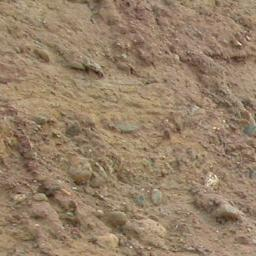
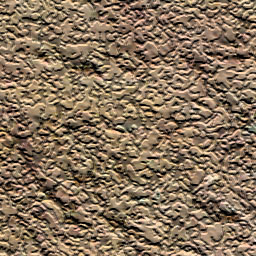
新增天空

diff --git a/snake3d/ground.cpp b/snake3d/ground.cpp
@@ -29,8 +29,6 @@ attribute vec4 v4Position;
 uniform mat4 m4MVP;
 varying vec2 v2TexCoord;
 
-uniform vec2 v2GroundSize;
-
 void main()
 {
 
@@ -51,9 +49,11 @@ static const char* const s_fshGround = SHADER_STRING_PRECISION_M
 (
 uniform sampler2D groundTexture;
 varying vec2 v2TexCoord;
+uniform vec2 v2GroundSize;
+
 void main()
 {
-	gl_FragColor = texture2D(groundTexture, v2TexCoord);//vec4(0.0, 1.0, 1.0, 1.0);
+	gl_FragColor = texture2D(groundTexture, fract(v2TexCoord * v2GroundSize));//vec4(0.0, 1.0, 1.0, 1.0);
 }
 );
 
@@ -70,7 +70,7 @@ const char* const Ground::paramVertexPositionName = "v4Position";
 const char* const Ground::paramGroundTextureName = "groundTexture";
 const char* const Ground::paramGroundSizeName = "v2GroundSize";
 
-Ground::Ground() : m_groundVBO(0), m_groundIndexVBO(0), m_groundMeshIndexVBO(0), m_groundIndexSize(0), m_meshIndexSize(0), m_program(NULL), m_programMesh(NULL), m_groundTexture(0)
+Ground::Ground() : m_groundVBO(0), m_groundIndexVBO(0), m_groundMeshIndexVBO(0), m_groundIndexSize(0), m_meshIndexSize(0), m_program(NULL), m_programMesh(NULL), m_groundTexture(0), m_groundSize()
 {
 
 }
@@ -82,6 +82,9 @@ Ground::~Ground()
 
 bool Ground::initWithStage(const int *stage, int w, int h, const char* texName)
 {
+	m_groundSize[0] = w;
+	m_groundSize[1] = h;
+
 	clearGround();
 
 	float widthStep = 1.0f / w;
@@ -215,9 +218,6 @@ void Ground::drawGround(HTAlgorithm::Mat4& mvp)
 		glActiveTexture(GROUND_TEXTURE_ID);
 		glBindTexture(GL_TEXTURE_2D, m_groundTexture);
 		m_program->sendUniformi(paramGroundTextureName, GROUND_TEXTURE_INDEX);
-		
-// 		GLint u = m_program->uniformLocation(paramGroundTextureName);
-// 		glUniform1i(m_program->uniformLocation(paramGroundTextureName), GROUND_TEXTURE_INDEX);
 	}
 
 	glBindBuffer(GL_ARRAY_BUFFER, m_groundVBO);
@@ -282,6 +282,9 @@ bool Ground::initPrograms()
 		LOG_ERROR("Ground : Program link failed!\n");
 		return false;
 	}
+
+	m_program->bind();
+	m_program->sendUniformf(paramGroundSizeName, m_groundSize[0], m_groundSize[1]);
 
 	m_programMesh = new ProgramObject;
 

diff --git a/snake3d/scenewindow.cpp b/snake3d/scenewindow.cpp
@@ -75,7 +75,7 @@ void SceneWindow::paintGL()
 	
 	m_ground->drawGround(qmat);
 	
-	m_ground->drawGroundWithMesh(qmat);
+//	m_ground->drawGroundWithMesh(qmat);
 
 	swapBuffers();
 }
@@ -119,7 +119,7 @@ void SceneWindow::initializeGL()
 	timer->start(20);
 
 	glEnable(GL_DEPTH_TEST);
-
+	
 	htCheckGLError("SceneWindow::initializeGL");
 }
 

diff --git a/snake3d/ground.h b/snake3d/ground.h
@@ -38,6 +38,7 @@ protected:
 protected:
 	GLuint m_groundVBO, m_groundIndexVBO, m_groundMeshIndexVBO;
 	std::vector<HTAlgorithm::Vec3f> m_groundVertices;
+	HTAlgorithm::Vec2f m_groundSize;
 	GLuint m_groundIndexSize, m_meshIndexSize;
 	GLuint m_groundTexture;
 	ProgramObject *m_program, *m_programMesh;

diff --git a/snake3d/sky.h b/snake3d/sky.h
@@ -1,0 +1,17 @@
+/*
+ * sky.h
+ *
+ *  Created on: 2014-6-8
+ *      Author: Wang Yang
+ *        Mail: admin@wysaid.org
+ *        Blog: http://blog.wysaid.org
+*/
+
+#ifndef _SKY_H_
+#define _SKY_H_
+
+
+
+
+
+#endif

diff --git a/snake3d/sky.cpp b/snake3d/sky.cpp
@@ -1,0 +1,8 @@
+/*
+ * sky.cpp
+ *
+ *  Created on: 2014-6-8
+ *      Author: Wang Yang
+ *        Mail: admin@wysaid.org
+ *        Blog: http://blog.wysaid.org
+*/
